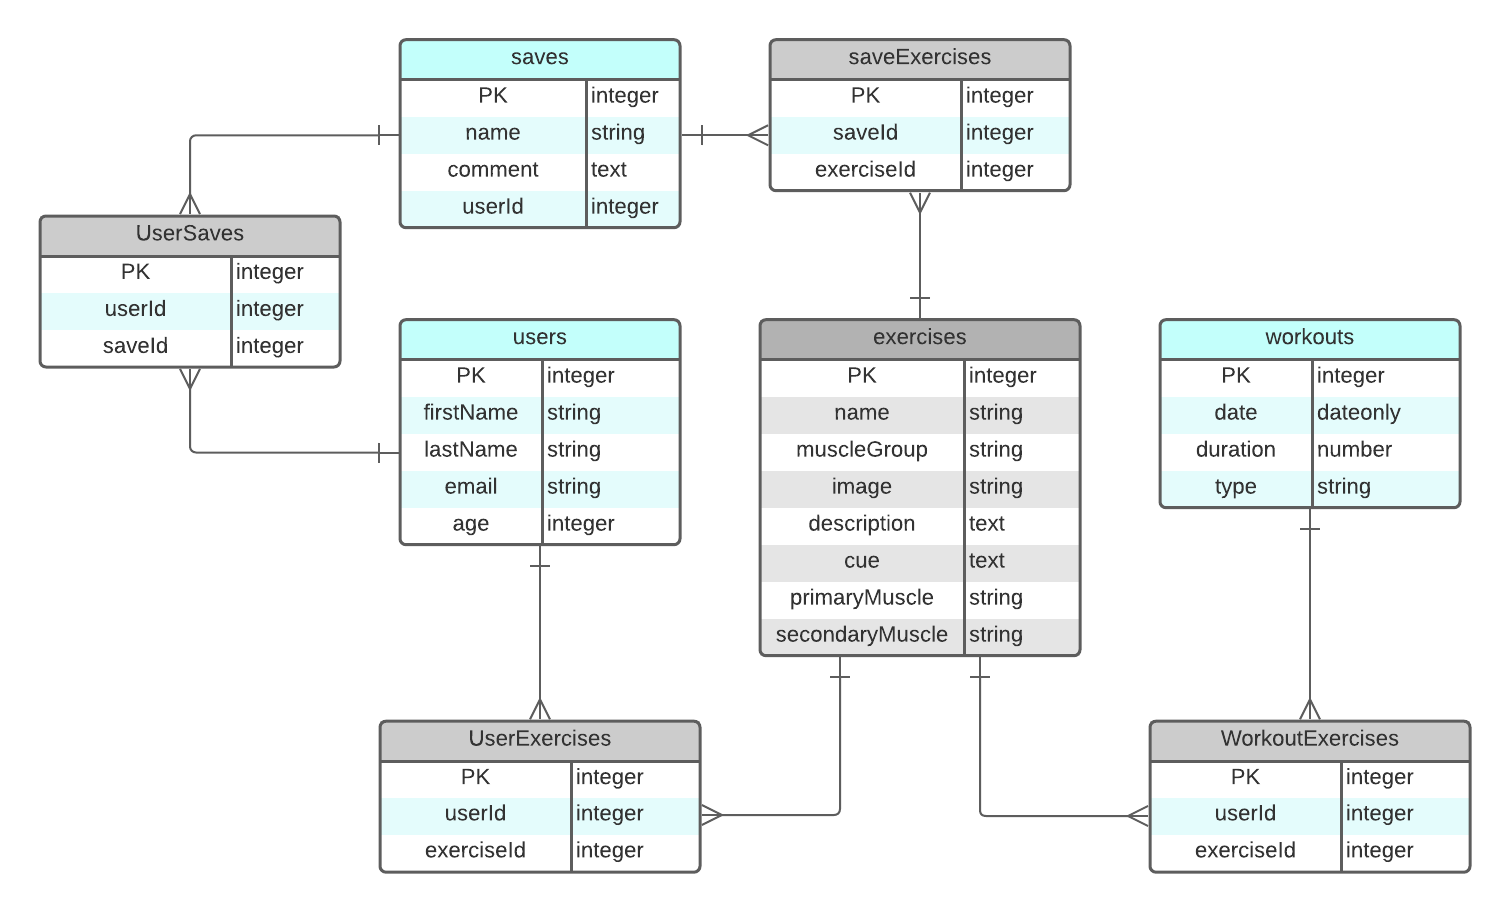
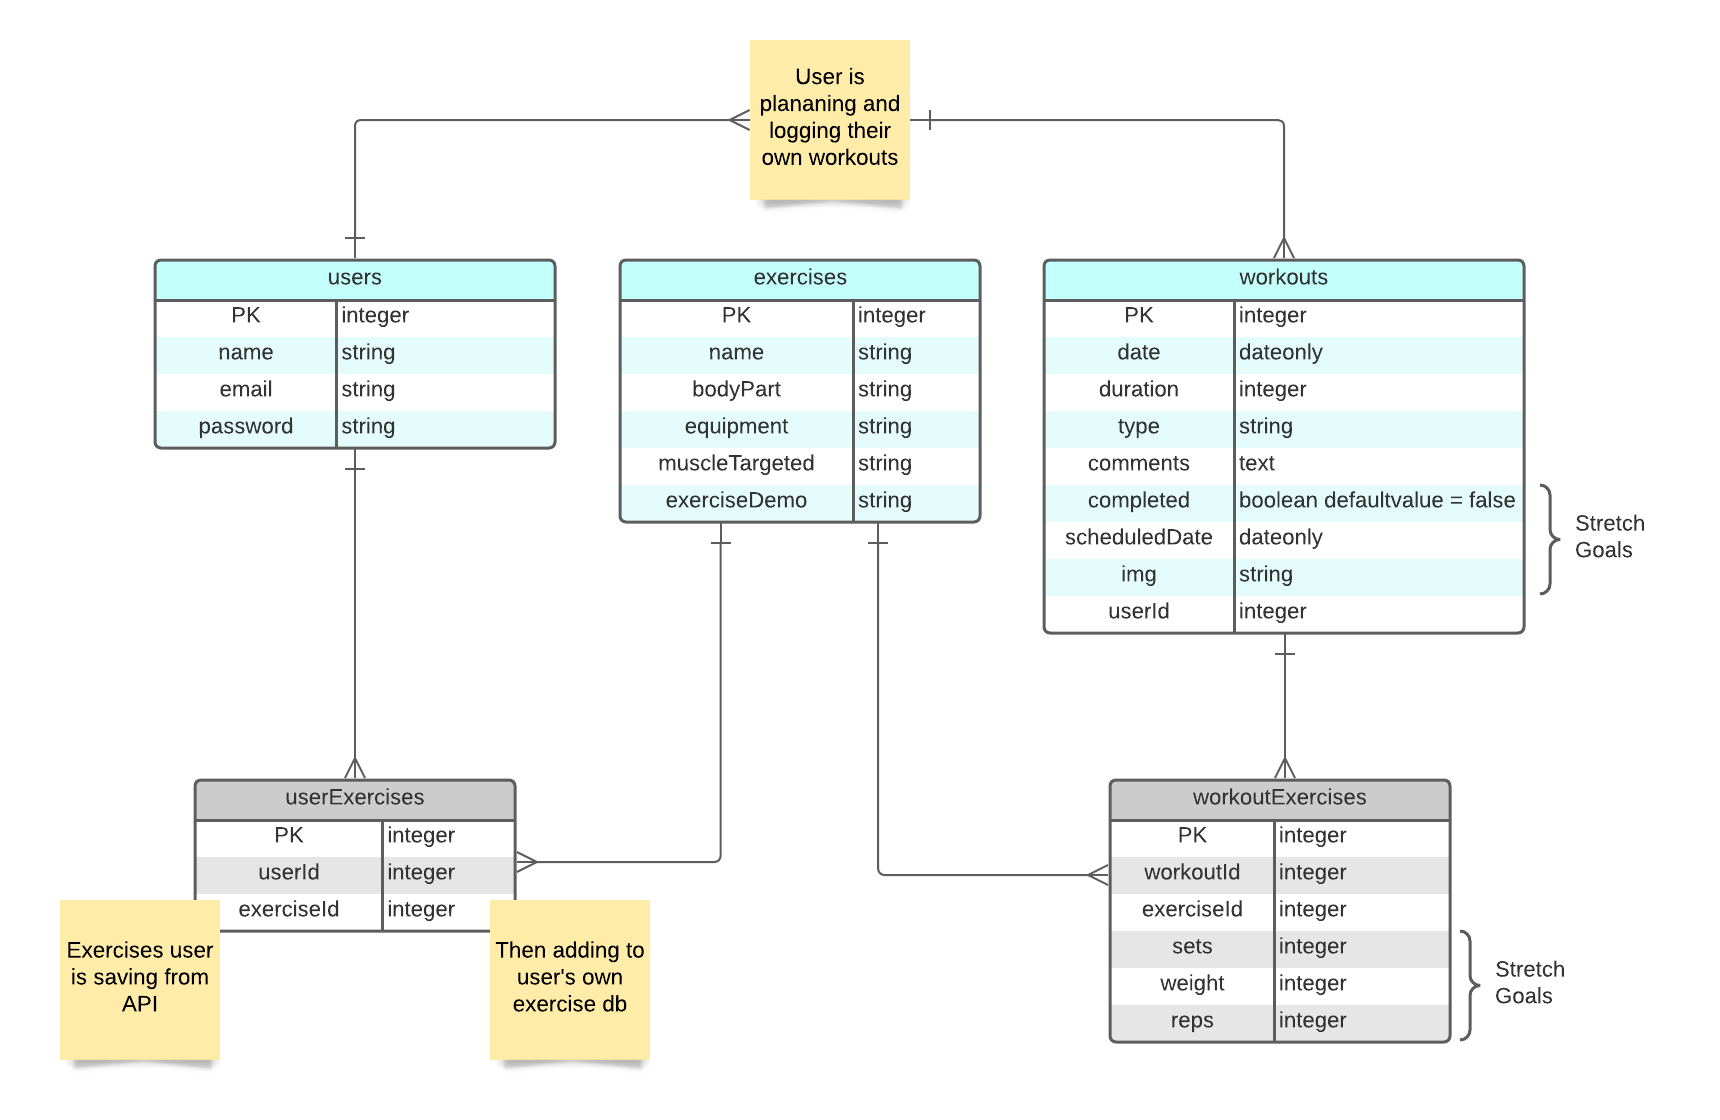
updating erd, api, and mvp on readme

diff --git a/readme.md b/readme.md
@@ -34,7 +34,7 @@
 ![Wireframe](./pitch-images/detailed-exercise.png)
 
 ## API
-* wger Workout Manager
+* ExerciseDB
 
 ## ERD
 ![ERD](./pitch-images/erd.png)
